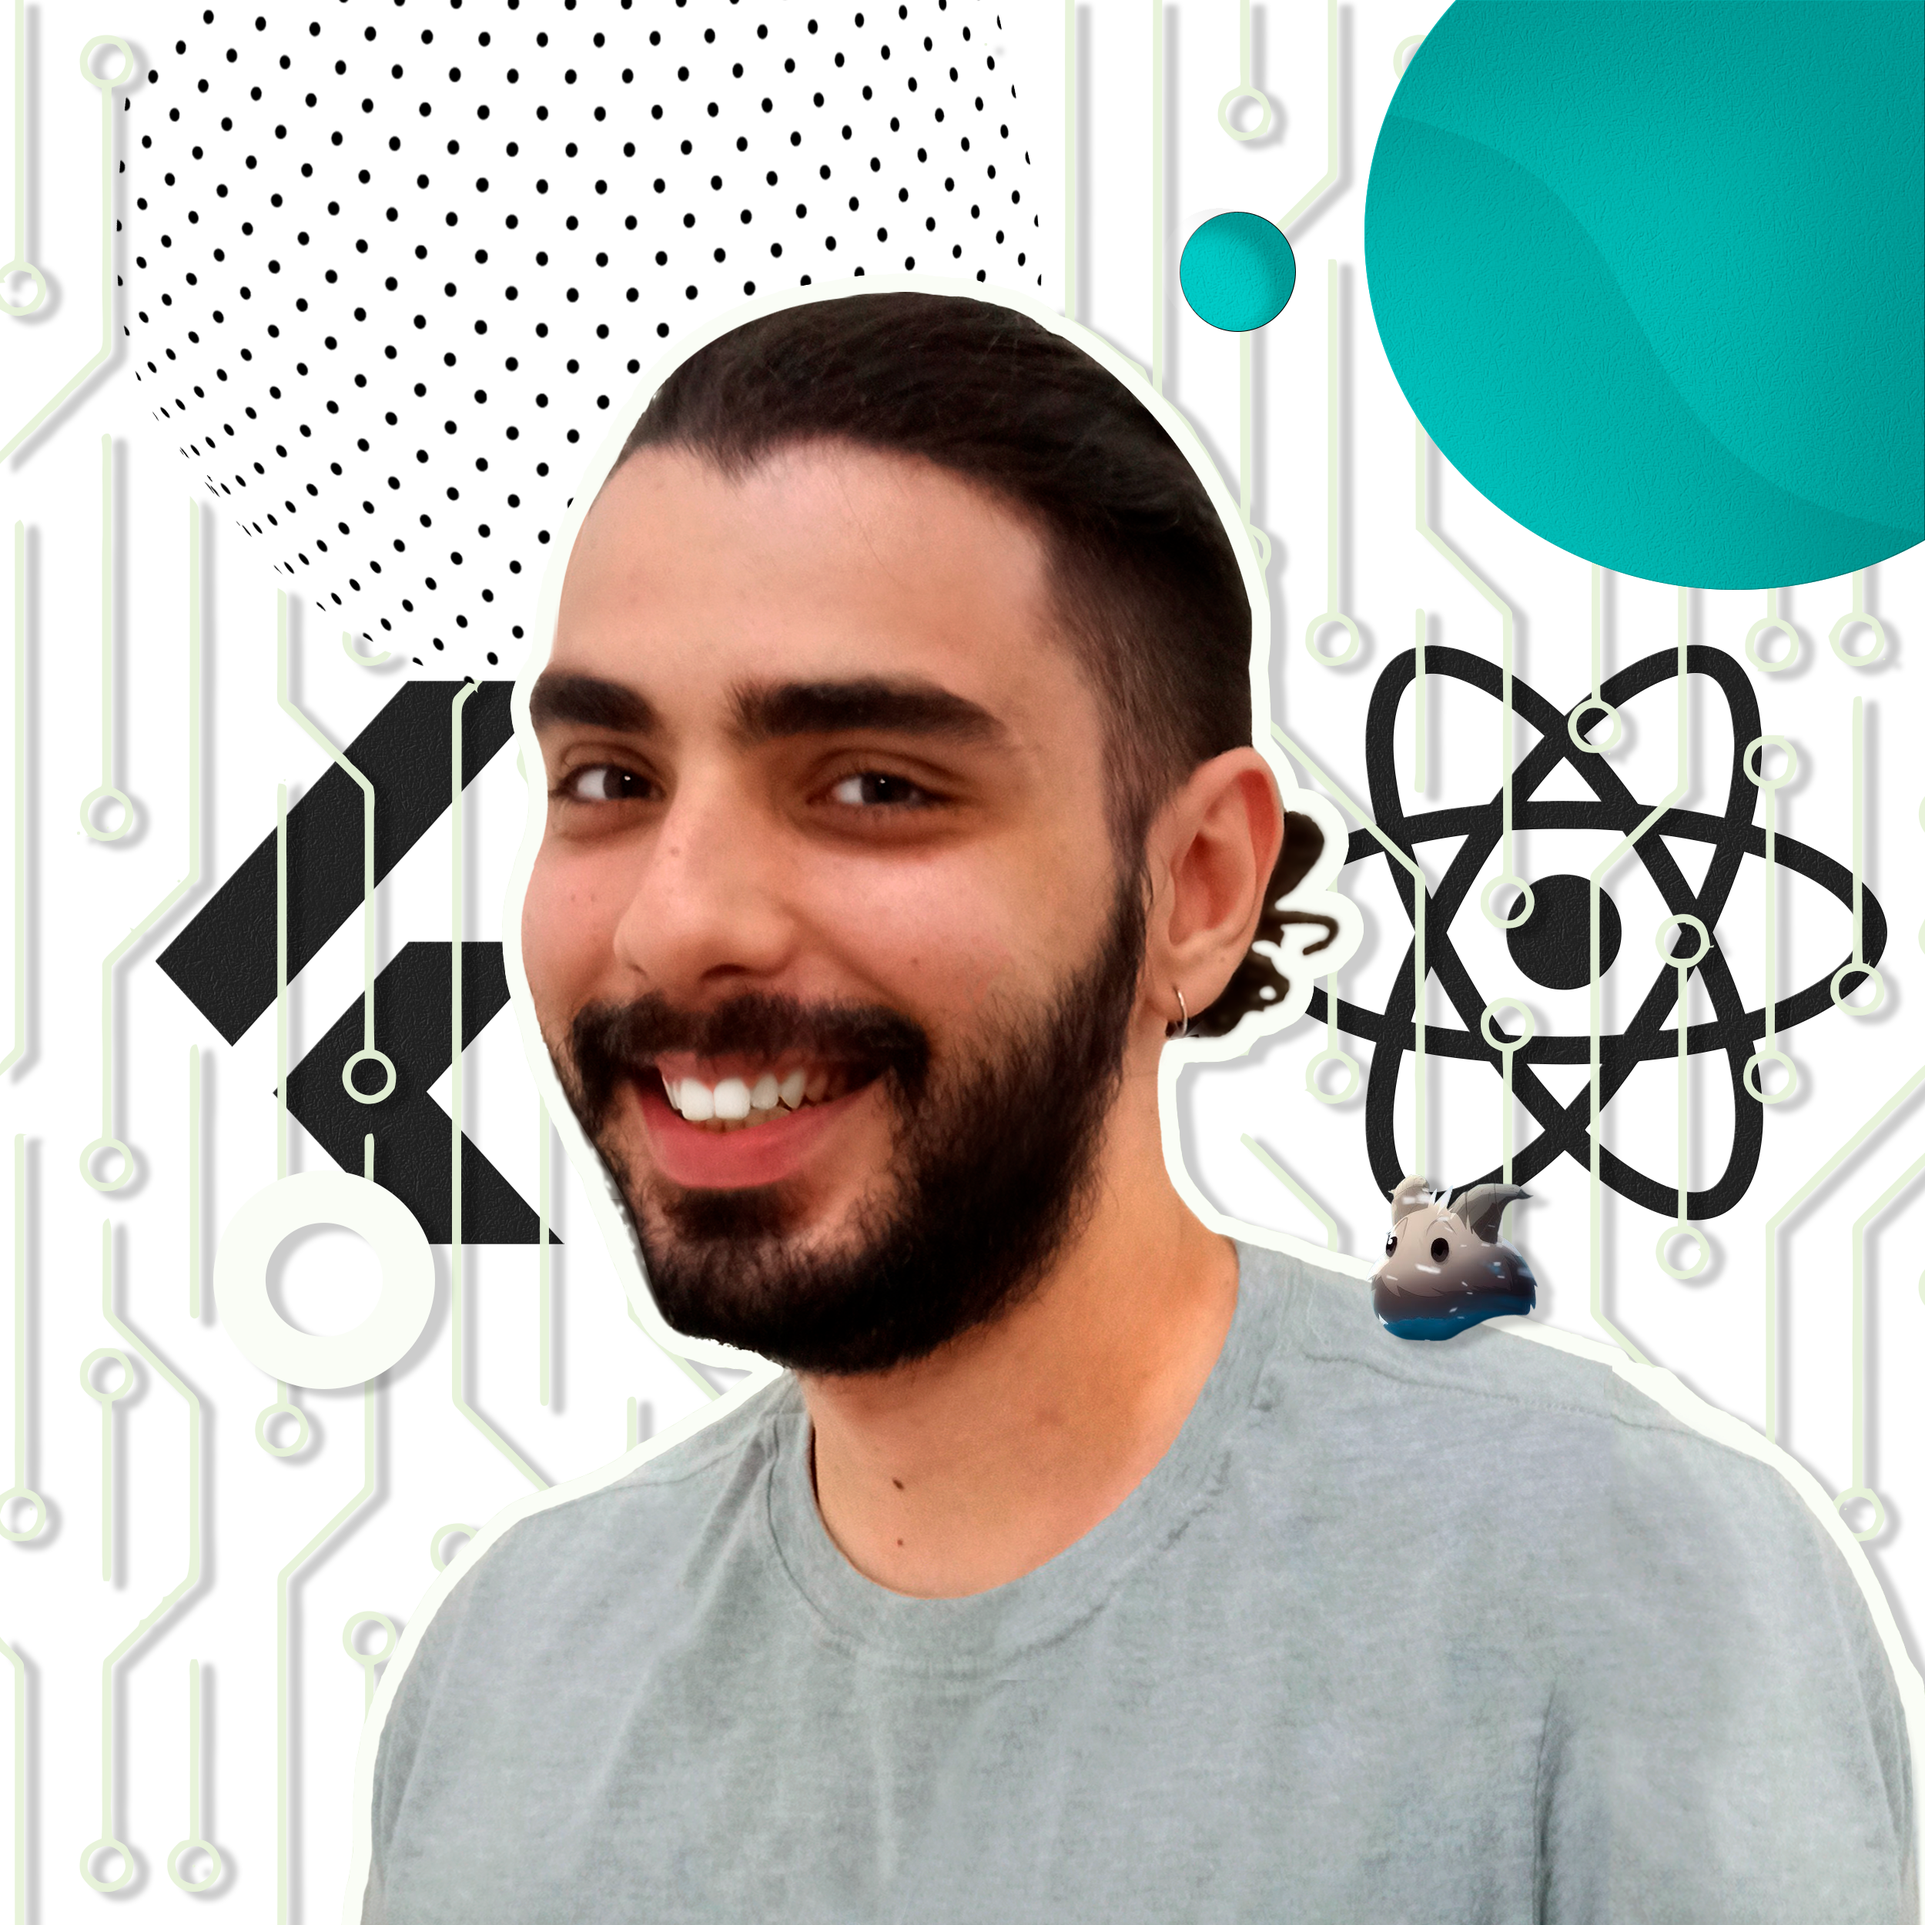
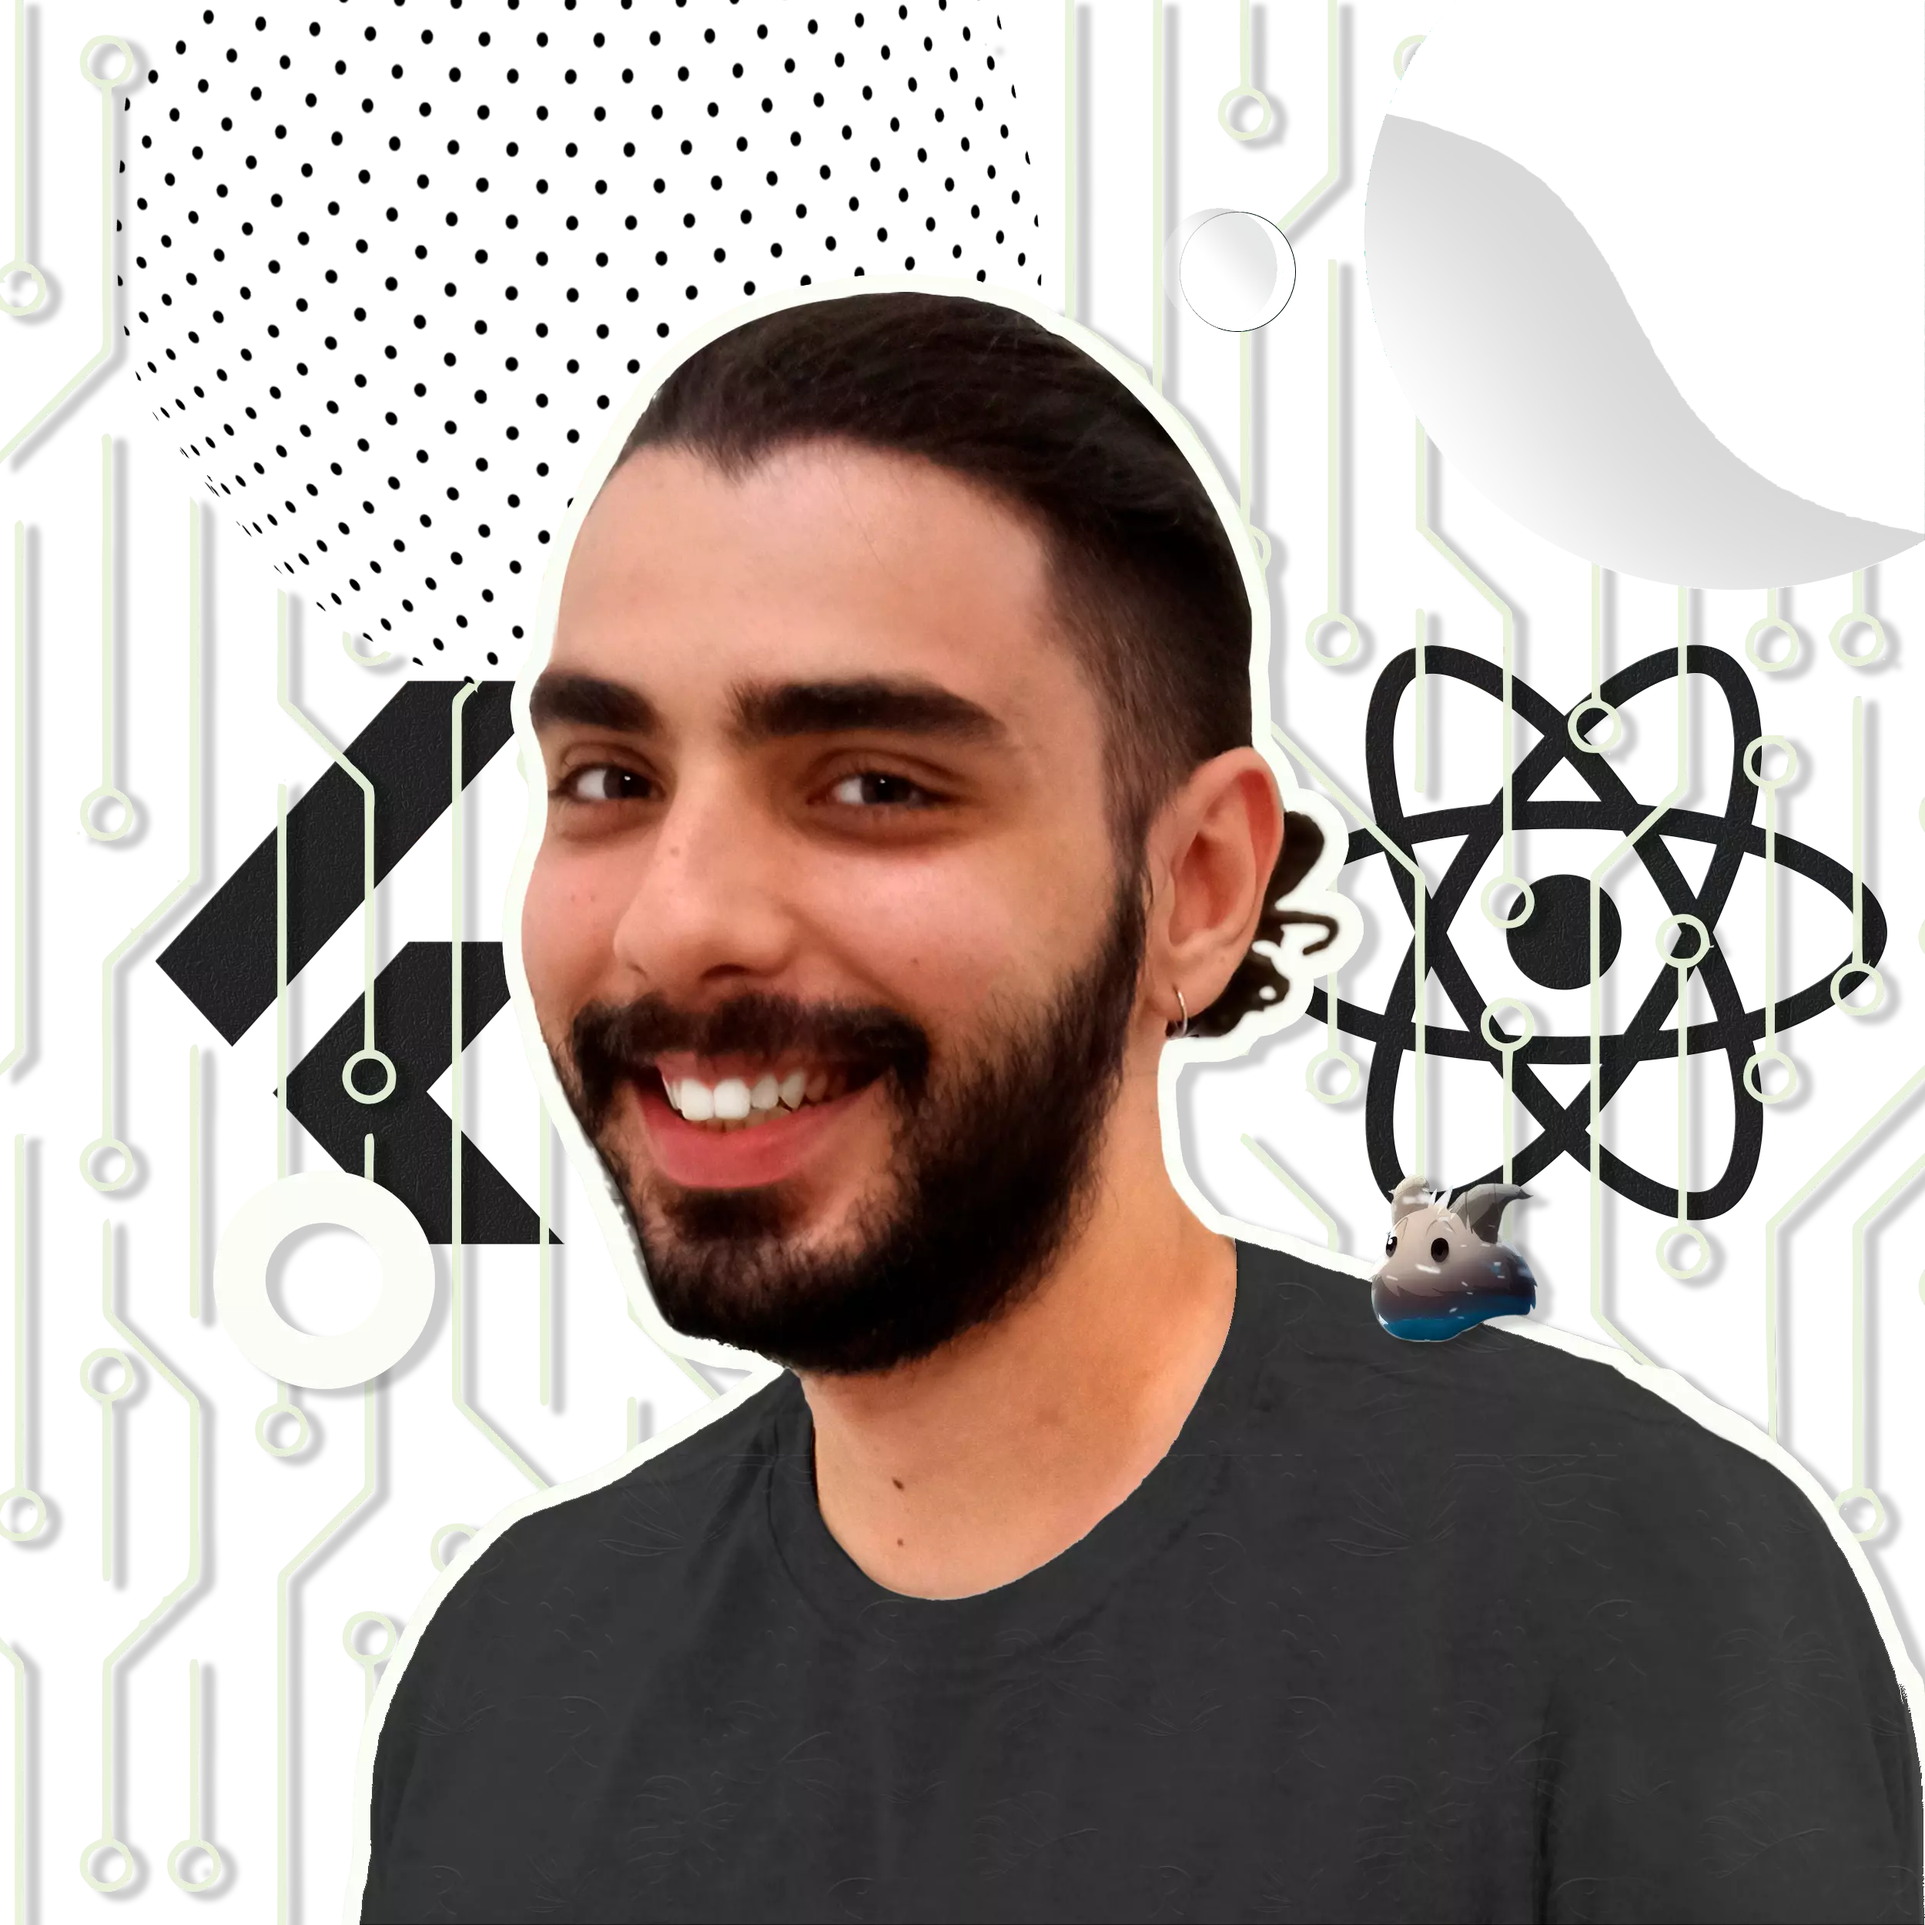
.

Changed region(s): [[0.1872, 0.624, 1.0, 1.0], [0.5928, 0.0, 1.0, 0.312]]

diff --git a/src/pages/Surprise/Surprise.tsx b/src/pages/Surprise/Surprise.tsx
@@ -182,11 +182,14 @@ function Surprise() {
           </Button>
         </Modal.Footer>
       </Modal>
-      <AudioPlayer
-        autoPlay
-        src={backgroundSong}
-        onPlay={(e) => console.log("onPlay")}
-      />
+      <Modal show={show} onHide={handleClose}>
+        <AudioPlayer
+          autoPlay
+          src={backgroundSong}
+          onPlay={(e) => console.log("onPlay")}
+          loop={true}
+        />
+      </Modal>
     </>
   );
 }

diff --git a/src/App.css b/src/App.css
@@ -6,8 +6,8 @@ html {
   height: auto;
 }
 body {
-  background: linear-gradient(#fe6559 30%, #f88078 90%) left 0/73%,
-    linear-gradient(#00b9b3 30%, #00faf2 90%) right;
+  background: linear-gradient(#ed3173 30%, #eb1a64 90%) left 0/67.5%,
+    linear-gradient(#71dffb 30%, #61dbfb 90%) right;
   background-repeat: no-repeat;
 }
 .font-face-gm {

diff --git a/src/pages/Mateus/Mateus.tsx b/src/pages/Mateus/Mateus.tsx
@@ -11,8 +11,8 @@ function Mateus() {
       <Col className="col-6 m-0">
         <Image
           src={perfil}
-          width="57%"
-          style={{ marginTop: "12vh", marginLeft: "7vw" }}
+          width="54%"
+          style={{ marginTop: "9vh", marginLeft: "3vw" }}
         />
       </Col>
     </Row>
